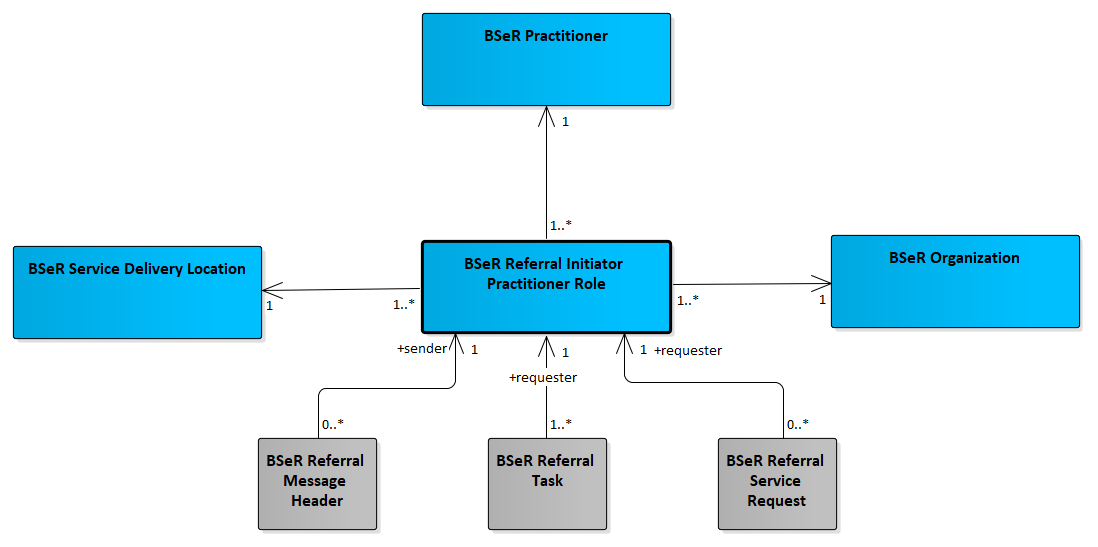
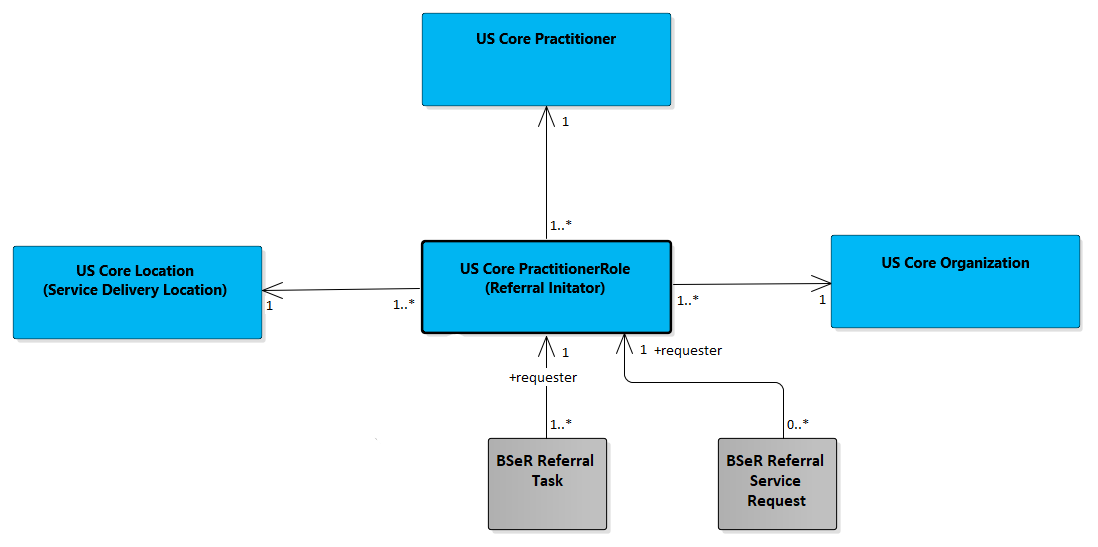
Update images and descriptions etc.

diff --git a/input/pagecontent/referral_participant_resources.md b/input/pagecontent/referral_participant_resources.md
@@ -1,9 +1,9 @@
-The primary participants in referral functions within the scope of the BSeR FHIR IG are the referral service request initiator, referral service request recipient, and referral service request patient. The resource profiles for the referral service request initiator and referral service request recipient use the [US Core Practitioner]({{site.data.fhir.ver.hl7fhiruscore}}/StructureDefinition-us-core-practitioner.html) and [US Core PractitionerRole]({{site.data.fhir.ver.hl7fhiruscore}}/StructureDefinition-us-core-practitionerrole.html) as their base resources. The referral service request patient is the [US Core Patient]({{site.data.fhir.ver.hl7fhiruscore}}/StructureDefinition-us-core-patient.html) profile.
+The primary participants in referral functions within the scope of the BSeR FHIR IG are the referral service request initiator, referral service request recipient, and referral service request patient. The referral service request initiator and referral service request recipient are represented by the [US Core Practitioner]({{site.data.fhir.ver.hl7fhiruscore}}/StructureDefinition-us-core-practitioner.html) and [US Core PractitionerRole]({{site.data.fhir.ver.hl7fhiruscore}}/StructureDefinition-us-core-practitionerrole.html). The referral service request patient is the [US Core Patient]({{site.data.fhir.ver.hl7fhiruscore}}/StructureDefinition-us-core-patient.html) profile.
 <center><table><tr><td><img src="Participant Resources.png" style="width:100%;"/></td></tr></table></center>
 
 ### Referral Service Request Initiator
 
-The referral initiator is the practitioner that initiates the referral task by sending the referral service request to the referral recipient. The initiator is related to an organization and a service delivery location. 
+The referral initiator is the practitioner that is making the referral request and initiates the referral task. The initiator is related to an organization and a service delivery location. 
 <center><table><tr><td><img src="Referral Initiator.png" style="width:100%;"/></td></tr></table></center>
 
 ### Referral Service Request Recipient

diff --git a/input/pagecontent/referral_service_request_resources.md b/input/pagecontent/referral_service_request_resources.md
@@ -1,8 +1,8 @@
-Each referral service request includes references to a patient (subject), referral initiator (requester), referral recipient (performer), and a reference to a bundle of supporting information consistent with the scope of the referral use case as designated in ServiceRequest.code. The supporting information bundles are mutually exclusive.
+Each referral service request includes references to a patient (subject), referral initiator (requester), referral recipient (performer), and a reference to a Bundle of supporting information consistent with the scope of the referral use case as designated in ServiceRequest.code.
 
 ### Referral Service Request Clinical Statements
 
-Each referral use case requires that certain information items accompany the service request as supporting information. The information items are supporting information for one or more referral use case. The following table indicates how service request supporting information items are allocated to referral use cases.
+Each referral use case requires that certain information items accompany the service request as supporting information. The following table indicates how service request supporting information items are allocated to BSeR referral use cases.
 
 <table style="width:100%" border="1">
     <thead>

diff --git a/input/pagecontent/referral_service_request_feedback_resources.md b/input/pagecontent/referral_service_request_feedback_resources.md
@@ -2,7 +2,7 @@ Each referral feedback includes references to a patient (subject), referral reci
 
 ### Referral Service Request Feedback Clinical Statements
 
-Each referral use case requires that certain information items accompany the service request feedback as supporting information. The information items are supporting information for one or more referral use case. The following table indicates how service request feedback supporting information items are allocated to referral use cases.
+Each referral use case requires that certain information items accompany the service request feedback as supporting information. The following table indicates how referral feedback supporting information items are allocated to the BSeR referral use cases.
 
 <table style="width:100%" border="1">
     <thead>

diff --git a/input/pagecontent/transport_options.md b/input/pagecontent/transport_options.md
@@ -18,7 +18,7 @@ The first resource in the <a href="StructureDefinition-BSeR-ReferralMessageBundl
 
 ### Basic REST Option
 
-The second option for transmitting the content in this implementation guide is described here as Basic REST. In this case, a point-to-point RESTful exchange is supported. If the immediate inclusion of all resource content must be ensured, then a top level bundle and insistence on their inclusion will be the responsibility of the transmitting server.
+The second option for transmitting the content in this implementation guide is described here as Basic REST. In this case, a point-to-point RESTful exchange is supported.
 
 The following profiles have been defined for the RESTful Submit Option:
 

diff --git a/input/pagecontent/service_request_and_referral_feedback_supporting_information.md b/input/pagecontent/service_request_and_referral_feedback_supporting_information.md
@@ -2,7 +2,7 @@ The BSeR IG illustrates the inclusion of service request content profiles for si
 
 The selected use cases have overlapping information needs that demonstrate the concepts of parsimonious partitioning and resource profile reuse.
 
-Each referral use case is an aggregation of supporting information data items. Supported information data items are represented with clinical profiles. In most cases, US Core profiles have been reused.
+Each referral use case is an aggregation of supporting information data items. Supporting information data items are represented with clinical profiles. In most cases, US Core profiles have been reused.
 
 ### Use Case Profiles
 

diff --git a/input/pagecontent/scope_and_context.md b/input/pagecontent/scope_and_context.md
@@ -13,4 +13,4 @@ The context of the BSeR IG is the placement of a referral by a clinical practiti
 
 ### Additional Referral Use Cases
 
-See the section "Adaptation for Additional Referral Use Cases" for guidance in reusing or extending the use of the BSeR standard for use in additional referral use cases.
+See the section [Adaptation for Additional Referral Use Cases](adaptation_for_additional_referral_use_cases.html) for guidance in reusing or extending the use of the BSeR standard for use in additional referral use cases.
